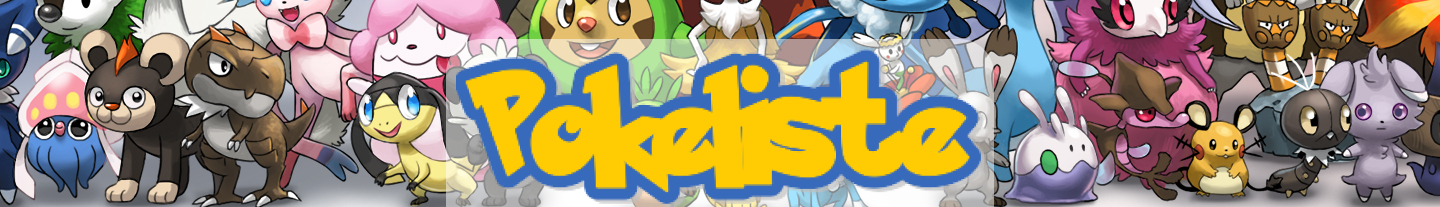
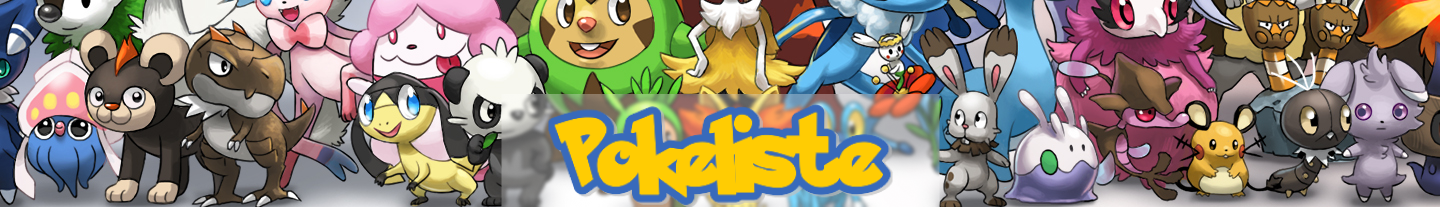
style: (nav bar)reduce height. change header_img

Changed region(s): [[0.3125, 0.1739, 0.6875, 1.0]]

diff --git a/CSS/style-main.css b/CSS/style-main.css
@@ -87,7 +87,7 @@ header {
     flex-direction: column;
     justify-content: space-between;
     align-items: center;
-    padding: 35px 20px;
+    padding: 10px 20px;
     cursor: pointer;
     box-shadow: 0px 4px 4px rgba(0, 0, 0, 0.25);
 }
